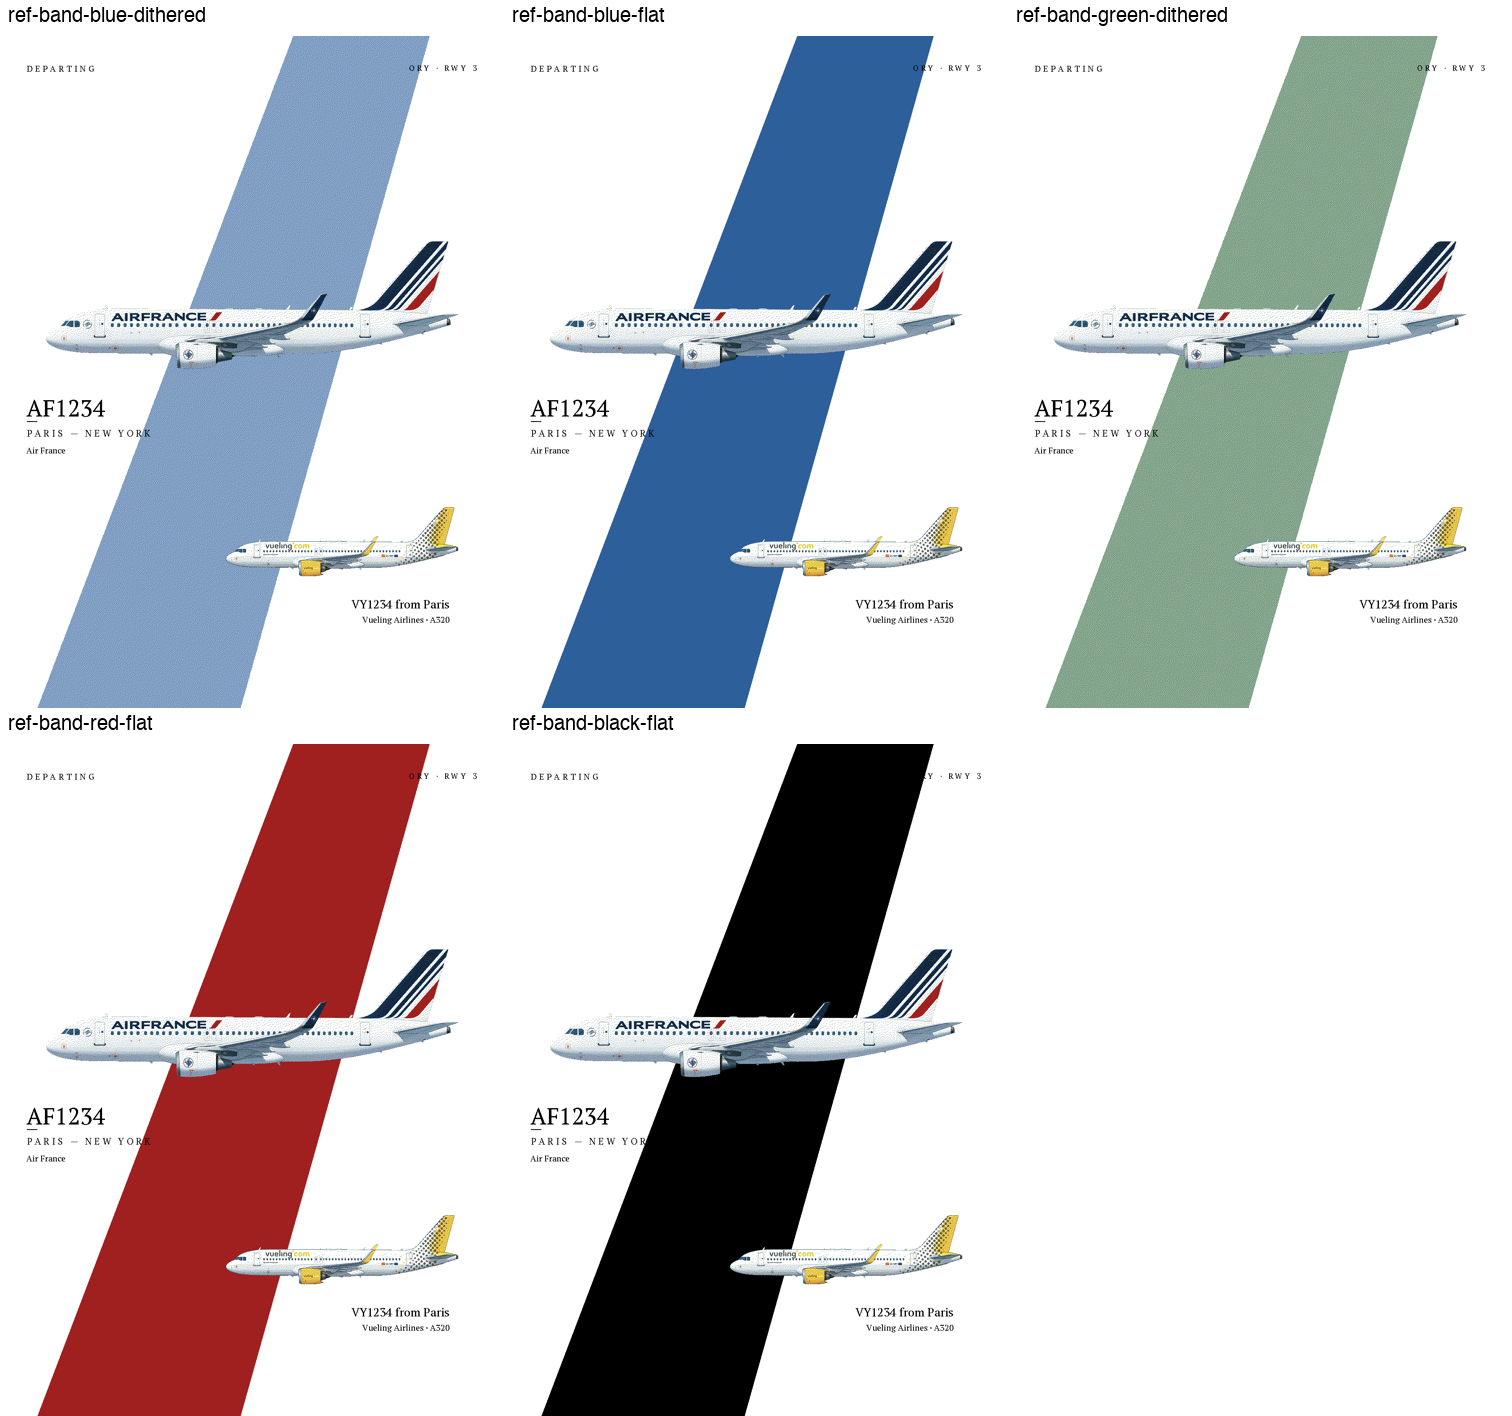
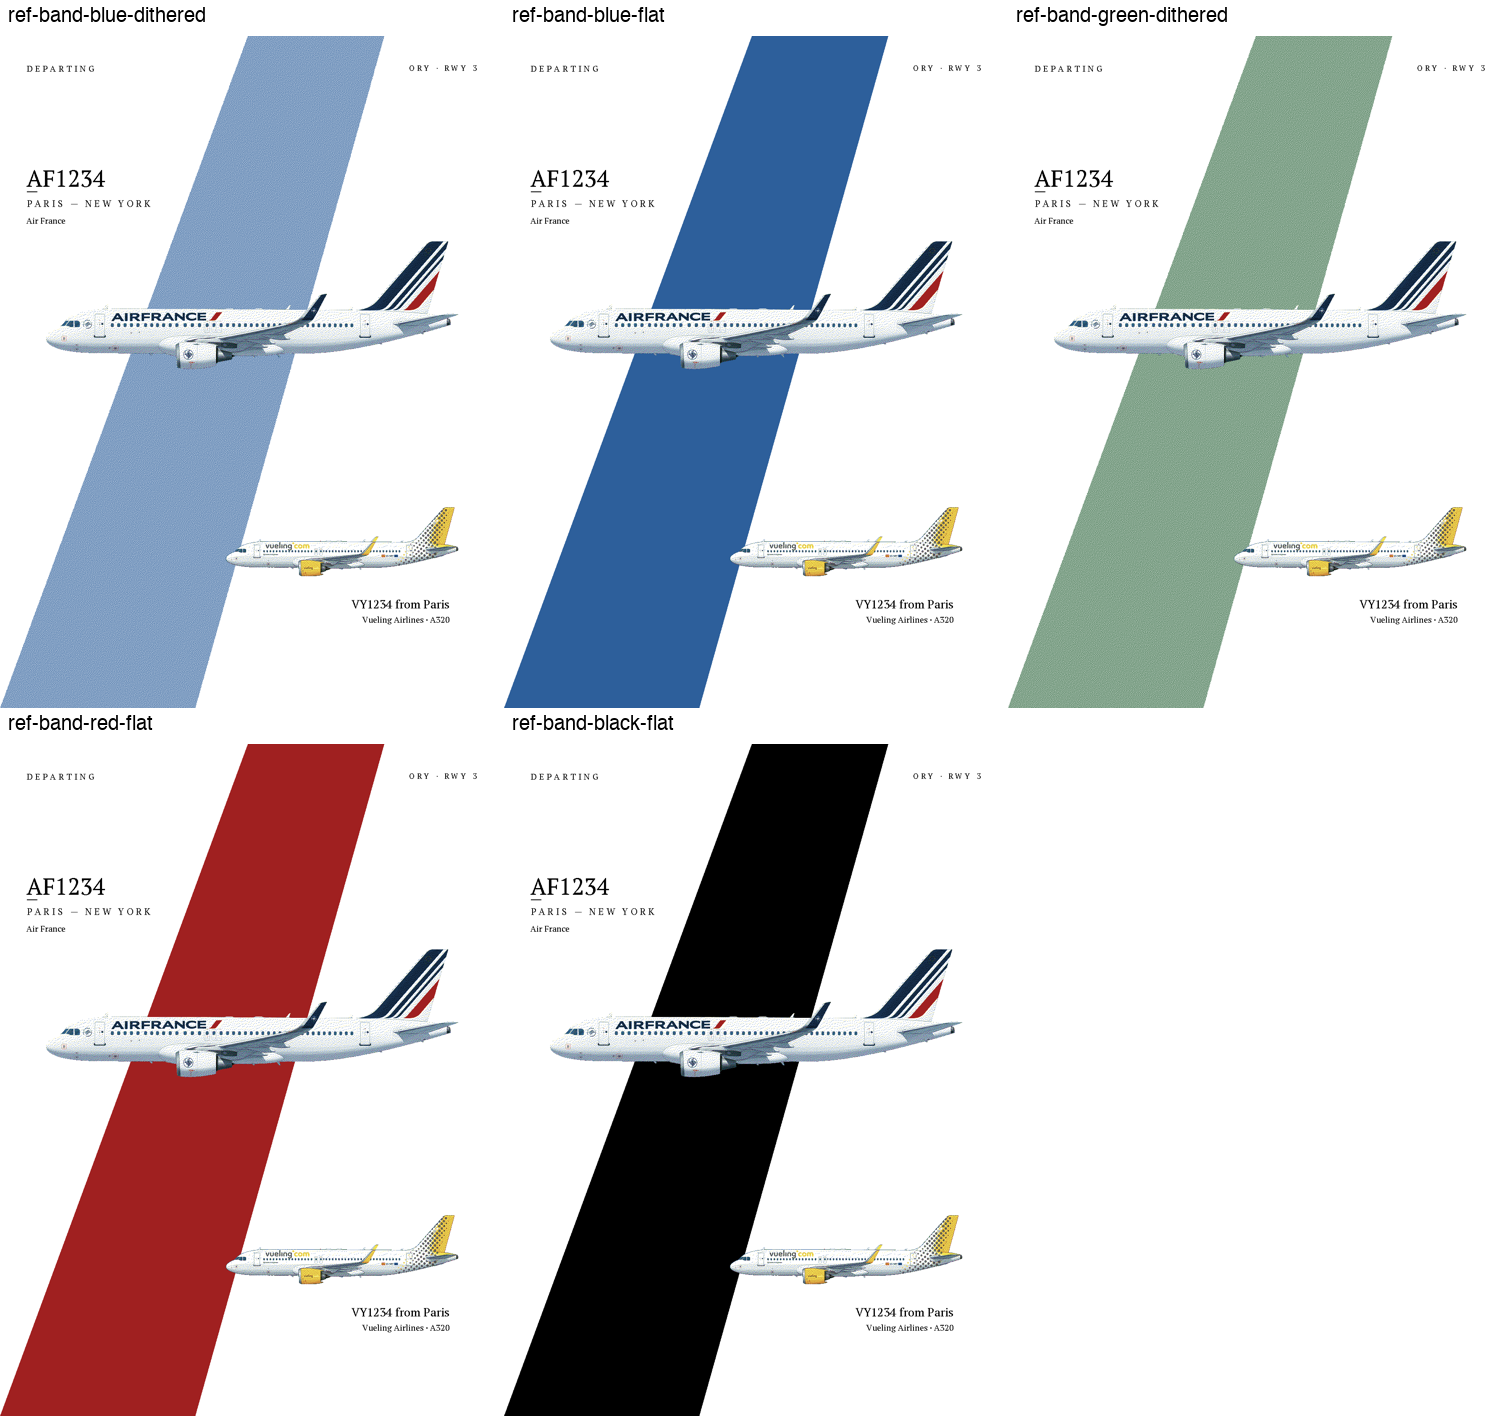
docs(spike-003): fix both round-2 findings per developer's own proposals
Band shifted left (BAND_SHIFT_FRAC=-0.09, pure translation) clears the
runway tag with a real margin. Main text block moved from below the
illustration to the gap above it, resolving both the tag collision and
the black-band/black-ink text collision at once, on all 5 requested
band colours (blue/green light dithered, red/black/blue flat).

Still open: PT Serif Italic not vendored (Air France renders Regular);
no on-glass verification yet (screen-preview only, per D-13).

diff --git a/.planning/spikes/003-diagonal-band-theme/explore_full_composition.py b/.planning/spikes/003-diagonal-band-theme/explore_full_composition.py
@@ -64,10 +64,19 @@ TEST_PREV_ROUTE = {
 }
 
 # --- Band geometry, measured from the reference (trapezoid, not a parallelogram) ---
-BAND_TOP_LEFT_FRAC = 0.5818
-BAND_TOP_RIGHT_FRAC = 0.8523
-BAND_BOT_LEFT_FRAC = 0.0742
-BAND_BOT_RIGHT_FRAC = 0.4772
+# Shifted left by BAND_SHIFT_FRAC (developer's fix for the tag collision):
+# our real render's runway tag starts at x_frac=0.8117 (measured via
+# render._tracked_text_width(), not the reference's own 0.8117 - different
+# font/tracking), vs. the unshifted band's top-right edge at 0.8523 - a
+# real ~4pt overlap. Shifting the whole trapezoid left by 0.09 puts the
+# top-right edge at 0.762, a genuine ~5pt margin below the tag's start,
+# while preserving the band's measured width/shape exactly (a pure
+# translation, not a re-derivation).
+BAND_SHIFT_FRAC = -0.09
+BAND_TOP_LEFT_FRAC = 0.5818 + BAND_SHIFT_FRAC
+BAND_TOP_RIGHT_FRAC = 0.8523 + BAND_SHIFT_FRAC
+BAND_BOT_LEFT_FRAC = max(0.0, 0.0742 + BAND_SHIFT_FRAC)
+BAND_BOT_RIGHT_FRAC = 0.4772 + BAND_SHIFT_FRAC
 
 
 def draw_reference_band(canvas, band_idx, dithered=False):
@@ -105,10 +114,12 @@ DASH_W = 24
 DASH_GAP = 10
 
 
+ABOVE_ILLUSTRATION_GAP_PX = 40  # gap between the text block's bottom and the illustration's opaque top edge
+
+
 def patched_draw_main_text_block(canvas, flight, state, route, main_placement, ink_idx, bg_idx, weight):
     draw = ImageDraw.Draw(canvas)
     left_x = render.MARGIN
-    top_y = main_placement.content[3] + render.MAIN_TEXT_GAP_PX
 
     identifier = (route or {}).get("callsign_iata") or ""
     origin = (route or {}).get("origin_city") or ""
@@ -116,8 +127,24 @@ def patched_draw_main_text_block(canvas, flight, state, route, main_placement, i
     route_pair = "%s — %s" % (origin.upper(), dest.upper()) if origin and dest else ""
     airline = render.display_airline_name((route or {}).get("airline_name") or "")
 
-    # Flight number, big and bold, left-anchored.
     num_font = render._role_fit_text_size(FLIGHT_NUMBER_FONT, identifier, render.WIDTH - 2 * left_x, 28, weight)
+    route_font = render._role_font(ROUTE_LINE_FONT, weight)
+    airline_font = render._role_font(AIRLINE_LINE_FONT, weight)
+
+    # Measure pass (dry run at y=0) so the whole block's height is known
+    # before choosing where its top sits - developer's fix for the band
+    # collision: the text moves from below the illustration (where it
+    # crossed the band) to the gap above it instead, where the band's
+    # measured position (pushed toward the right edge at low y, see
+    # BAND_SHIFT_FRAC above) stays clear of this left-anchored block.
+    num_h = draw.textbbox((0, 0), identifier, font=num_font, anchor="la")[3]
+    route_h = render._tracked_text_bbox(route_font, (0, 0), route_pair, render.LABEL_TRACKING_PX)[3]
+    airline_h = draw.textbbox((0, 0), airline, font=airline_font, anchor="la")[3]
+    total_h = num_h + DASH_GAP + 2 + DASH_GAP + 4 + route_h + 12 + airline_h
+
+    top_y = main_placement.content[1] - ABOVE_ILLUSTRATION_GAP_PX - total_h
+
+    # Flight number, big and bold, left-anchored.
     num_bbox = draw.textbbox((left_x, top_y), identifier, font=num_font, anchor="la")
     draw.text((left_x, top_y), identifier, font=num_font, fill=ink_idx, anchor="la")
 
@@ -127,13 +154,11 @@ def patched_draw_main_text_block(canvas, flight, state, route, main_placement, i
 
     # Route line, tracked small-caps (reusing the shipped top-label technique).
     route_y = dash_y + DASH_GAP + 4
-    route_font = render._role_font(ROUTE_LINE_FONT, weight)
     render.draw_tracked_text(draw, (left_x, route_y), route_pair, route_font, ink_idx, render.LABEL_TRACKING_PX)
     route_bbox = render._tracked_text_bbox(route_font, (left_x, route_y), route_pair, render.LABEL_TRACKING_PX)
 
     # Airline name (Regular placeholder - italic not vendored).
     airline_y = route_bbox[3] + 12
-    airline_font = render._role_font(AIRLINE_LINE_FONT, weight)
     draw.text((left_x, airline_y), airline, font=airline_font, fill=ink_idx, anchor="la")
     airline_bbox = draw.textbbox((left_x, airline_y), airline, font=airline_font, anchor="la")
 

diff --git a/.planning/spikes/003-diagonal-band-theme/README.md b/.planning/spikes/003-diagonal-band-theme/README.md
@@ -9,7 +9,7 @@ validates: |
   build_canvas() pipeline, then at least one reads well on a 6-colour
   e-ink panel, passes the real _assert_legal_palette() background-
   dominance guard rail, and does not collide with any text.
-verdict: PENDING - round 2 (precise reference reproduction) presented, 2 findings need a decision (tag collision, black+black-ink)
+verdict: PENDING - round 3 fixes both round-2 findings (band shifted left, text moved above illustration), awaiting developer reaction; italic still unvendored
 related: ["001-panel-theme-colours", "002-small-labels-and-white-rhythm"]
 tags: [render, theme, diagonal-band, layout, e-ink, palette-guard-rail]
 ---
@@ -177,3 +177,47 @@ Both are fixable (nudge the band's top-right edge left of the tag's
 measured position; either exclude black from the shipped set or resolve
 text ink per-band), but need the developer's call before implementation
 - see the checkpoint presented alongside this file.
+
+**Round 3 - both findings fixed, developer's own proposed solutions.**
+
+1. **Band shifted left by `BAND_SHIFT_FRAC = -0.09`** (a pure translation
+   of the measured trapezoid, same width/shape, not a re-derivation).
+   Our real render's runway tag starts at `x_frac=0.8117`
+   (`render._tracked_text_width()`, measured directly - not the
+   reference's own 0.8117, different font/tracking); the shifted band's
+   top-right edge now sits at `0.762`, a genuine ~5-point margin below
+   the tag. Confirmed clear on all 5 candidates.
+2. **Main text block (flight number/dash/route/airline) moved from below
+   the illustration to the gap above it** - developer's own proposed
+   fix, not a fallback. The block is now bottom-anchored just above
+   `main_placement.content[1]` (the illustration's opaque top edge) via
+   a measure-then-place pass (each line's height computed with a dry-run
+   `textbbox()` at (0,0) before choosing where the block's top goes) -
+   the same drawing code runs top-down from that computed `top_y`, so no
+   line-height math is duplicated between the measure and draw passes.
+   At the height range this puts the block in (roughly 9-28% of canvas
+   height), the shifted band sits at 55-73% width, comfortably clear of
+   this left-anchored block's typical extent (~5-30% width).
+
+**Both real findings are now resolved in every one of the 5 requested
+candidates** - no tag collision, no band/ink-colour text collision, on
+blue light (dithered), green light (dithered), red (flat), black (flat),
+and blue (flat). `renders/contact_sheet_full_composition.png` is the
+current, corrected comparison set. The developer has not yet reacted to
+this round.
+
+**Still open, unresolved:**
+- PT Serif Italic is not vendored - "Air France" still renders in
+  Regular. Needs a developer decision: vendor an italic file (new
+  provenance record in `VENDOR.md`, matching the existing pinned-commit/
+  digest/licence discipline), or keep Regular and drop italic from the
+  design intent.
+- This entire round is screen-preview only, per this project's own D-13
+  precedent (every visual/typography change needs a real on-glass check
+  before being considered final) - nothing here has been near the real
+  panel yet.
+- The previous-flight card's text (bottom-right, unchanged from
+  production) was checked visually for band collision at its height
+  range (~75-85% canvas height, band sits at ~17-46% width there) and
+  looks clear in every candidate, but wasn't measured as precisely as
+  the two fixed issues above.
